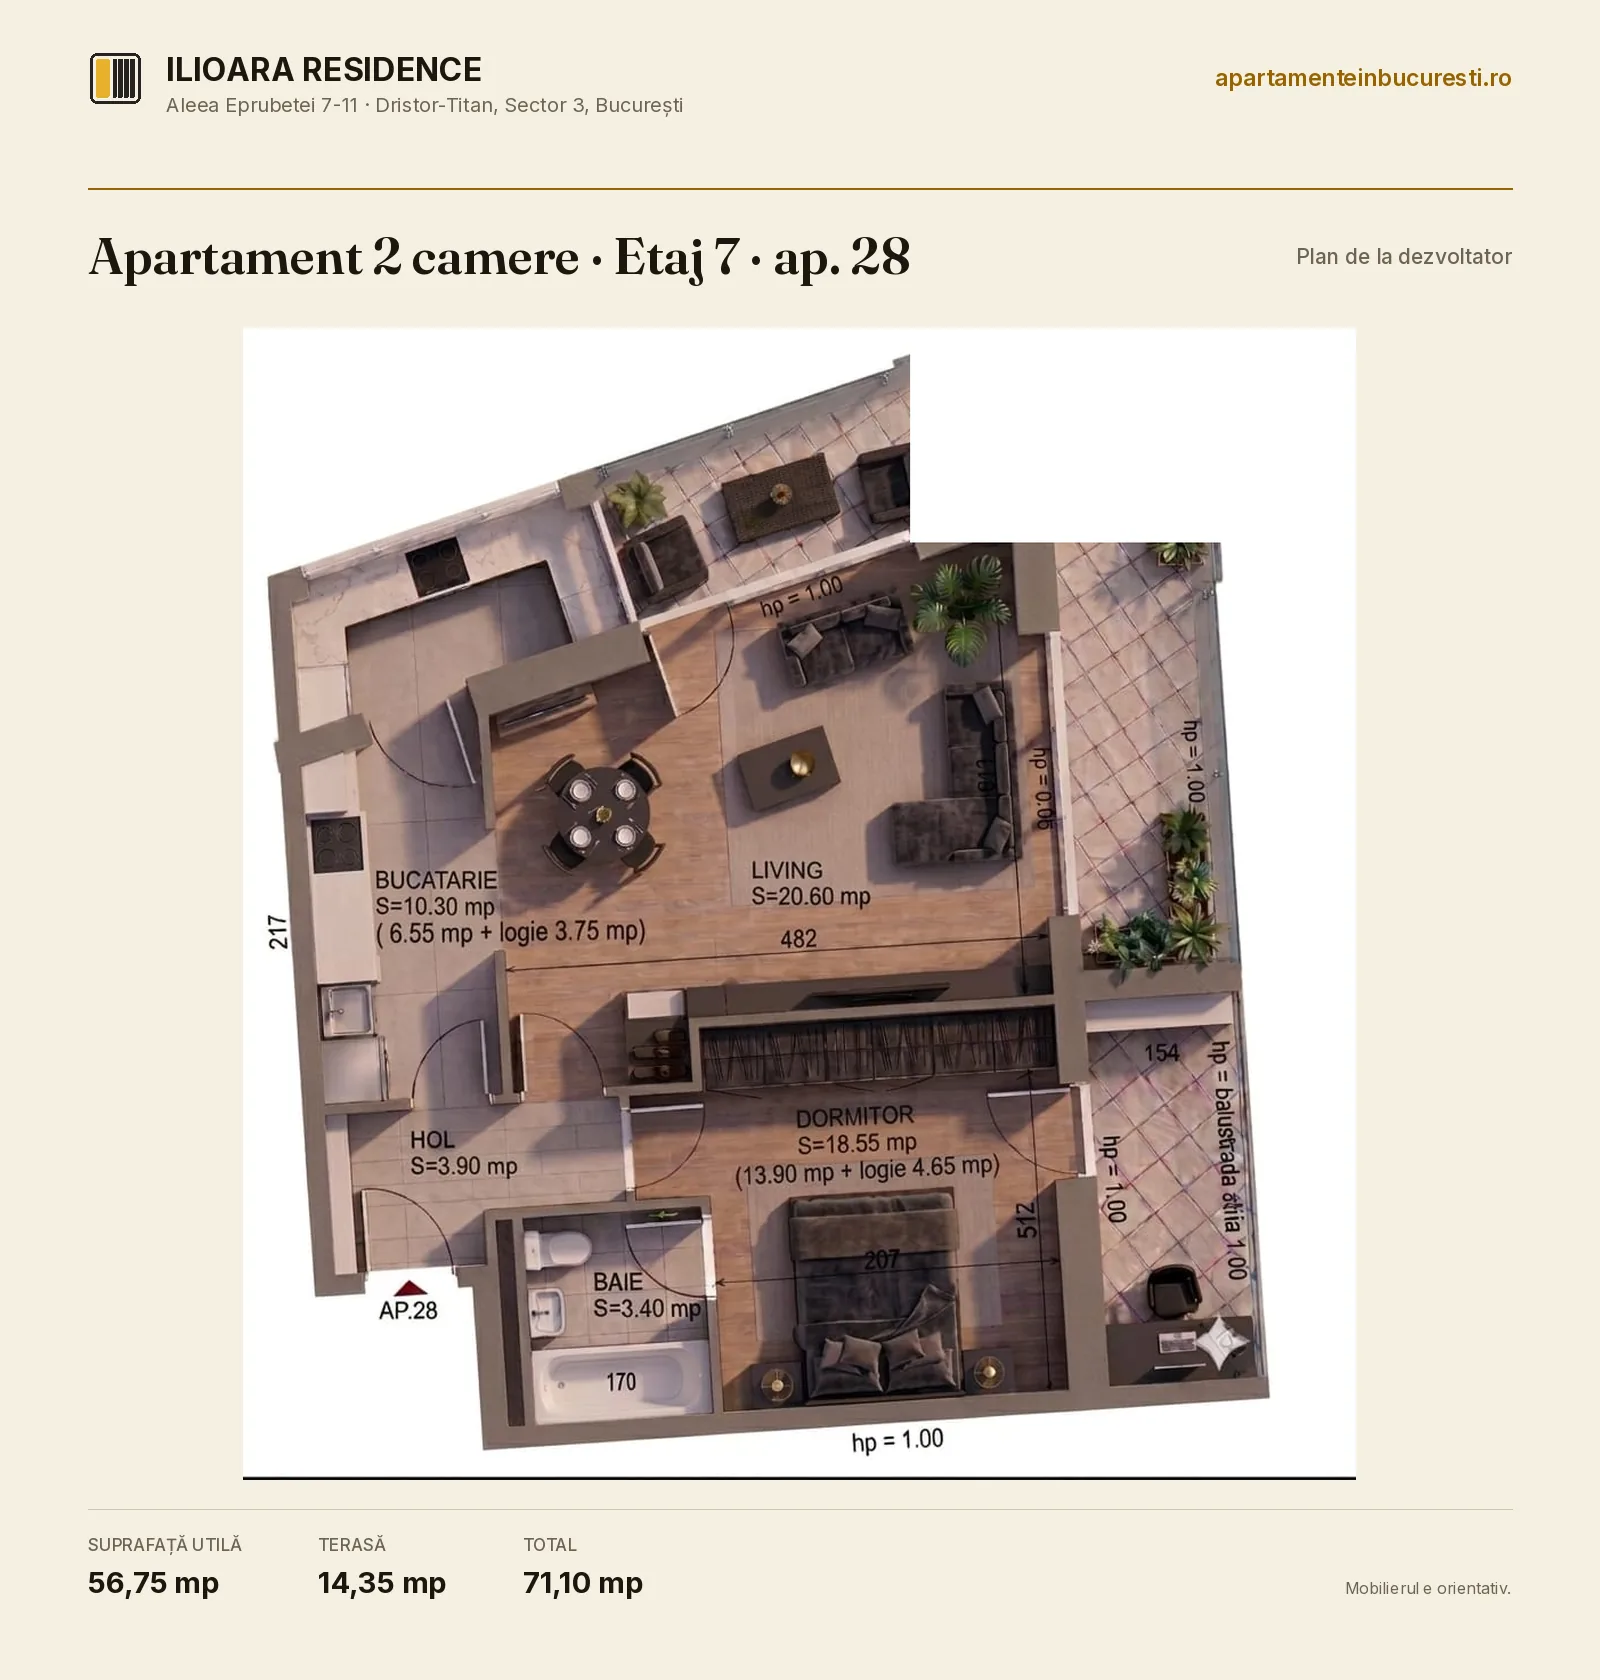
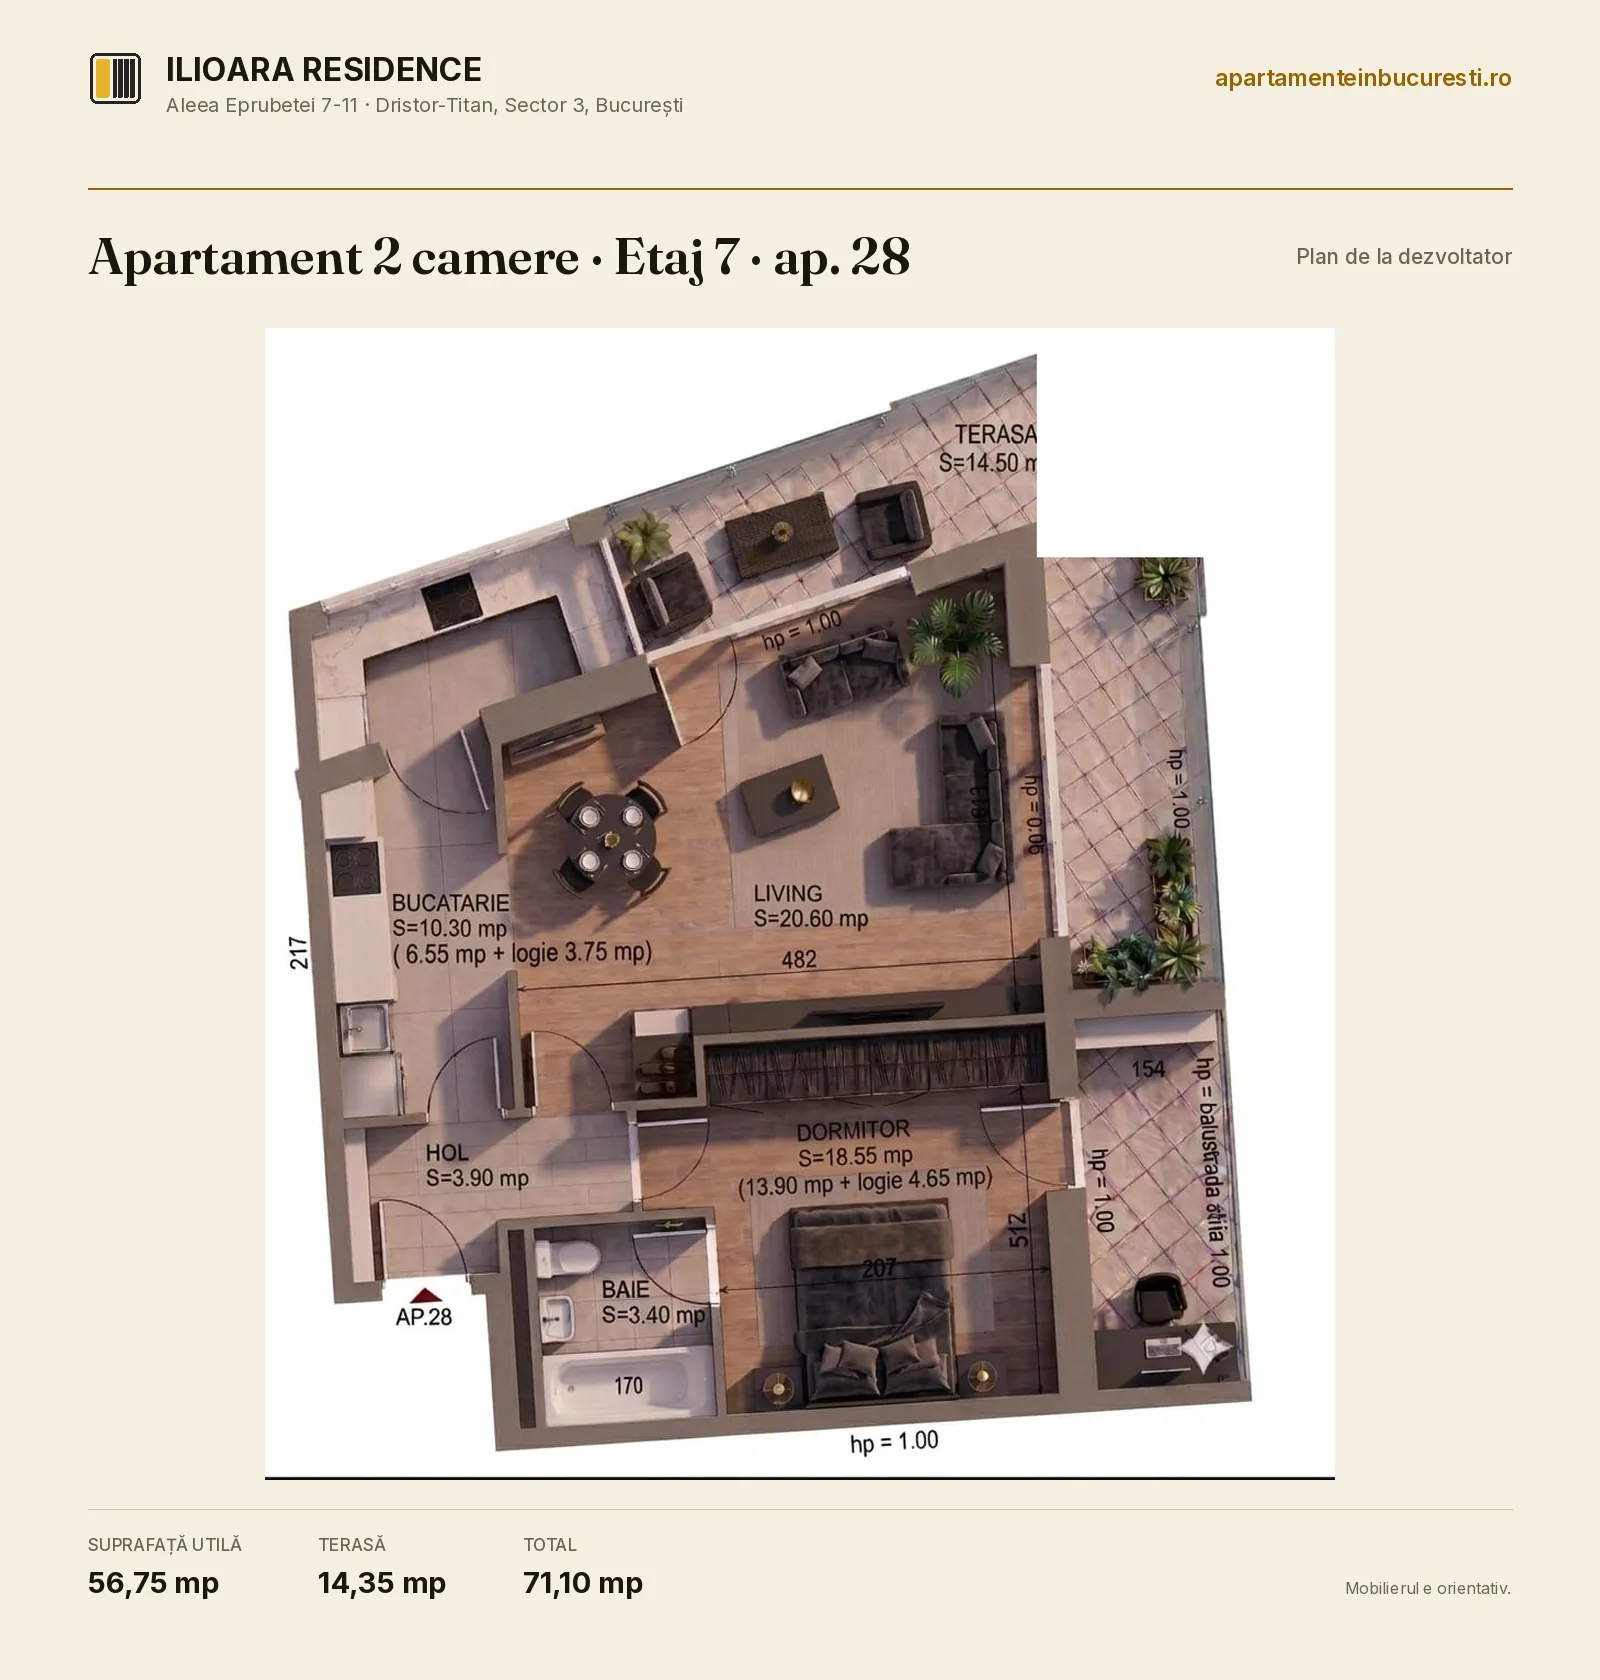
Etajul 7: mastile de brand masurate pe grila, nu ghicite
Pe ap. 28 masca tabelului era (0,60 - 1 · 0 - 0,25) si taia coltul terasei: iesea o
crestatura alba in randare, exact langa cifra "TERASA S=14.50 mp". Aceeasi greseala pe
ap. 30, cu masca la 0,55 unde tabelul incepe la 0,745.

Masurat pe grila, plansa cu plansa:
- ap. 28: antet y 0 - 0,033 · tabel x 0,722 - 1, y 0,033 - 0,232
- ap. 30: antet y 0 - 0,052 · tabel x 0,745 - 1, y 0,052 - 0,315
- ap. 31: antet y 0 - 0,130, iar randarea incepe la 0,165, deci nu se ating

Randarile intra acum intregi, cu terasele si cotele lor.

LECTIE: o masca de brand se masoara pe grila, o singura data, nu se apropie prin
incercari succesive. Trei iteratii ghicite au costat mai mult decat o grila.

Claude-Session: https://claude.ai/code/session_01L1B55aKnmJNQfi41fCw1wB

Changed region(s): [[0.125, 0.1857, 0.8438, 0.8976]]

diff --git a/uk/apartamente/apartament-2-camere-etaj-7-ap-30/index.html b/uk/apartamente/apartament-2-camere-etaj-7-ap-30/index.html
@@ -154,7 +154,7 @@ body.mn-open .mn-x{opacity:1;visibility:visible;transition:opacity .4s ease .15s
 
 <h2 class="rv" data-fx="slide">План квартири</h2>
 <figure class="plan rv" data-fx="rise">
-  <a href="/planuri/plan-ap-30-en-v2.webp" target="_blank" rel="noopener"><img src="/planuri/plan-ap-30-en-v2.webp" width="1600" height="1483" alt="План квартири 30, 2 кімнати, поверх 7, Ilioara Residence, Aleea Eprubetei 7-11" loading="lazy" decoding="async"></a>
+  <a href="/planuri/plan-ap-30-en-v2.webp" target="_blank" rel="noopener"><img src="/planuri/plan-ap-30-en-v2.webp" width="1600" height="1507" alt="План квартири 30, 2 кімнати, поверх 7, Ilioara Residence, Aleea Eprubetei 7-11" loading="lazy" decoding="async"></a>
   <figcaption>План від забудовника. Корисна площа <b>59,50 м²</b>, тераса <b>7,25 м²</b>, разом <b>66,75 м²</b>. Меблі показано умовно.<br><a class="lupa" href="/planuri/plan-ap-30-en-v2.webp" target="_blank" rel="noopener">Відкрити план у повному розмірі &rarr;</a></figcaption>
 </figure>
 <h2 class="rv" data-fx="blur">Повний перелік оздоблення — саме таким, яким квартиру передають</h2>

diff --git a/ar/apartamente/apartament-2-camere-etaj-7-ap-30/index.html b/ar/apartamente/apartament-2-camere-etaj-7-ap-30/index.html
@@ -165,7 +165,7 @@ html[dir="rtl"] .rv[data-fx="slide"]{transform:translateX(26px)}
 
 <h2 class="rv" data-fx="slide">مخطط الشقة</h2>
 <figure class="plan rv" data-fx="rise">
-  <a href="/planuri/plan-ap-30-en-v2.webp" target="_blank" rel="noopener"><img src="/planuri/plan-ap-30-en-v2.webp" width="1600" height="1483" alt="مخطط الشقة 30، 2 غرف، الطابق 7، Ilioara Residence، Aleea Eprubetei 7-11" loading="lazy" decoding="async"></a>
+  <a href="/planuri/plan-ap-30-en-v2.webp" target="_blank" rel="noopener"><img src="/planuri/plan-ap-30-en-v2.webp" width="1600" height="1507" alt="مخطط الشقة 30، 2 غرف، الطابق 7، Ilioara Residence، Aleea Eprubetei 7-11" loading="lazy" decoding="async"></a>
   <figcaption>مخطط من المطوّر. المساحة المفيدة <b>59,50 م²</b>، الشرفة <b>7,25 م²</b>، الإجمالي <b>66,75 م²</b>. الأثاث للتوضيح فقط.<br><a class="lupa" href="/planuri/plan-ap-30-en-v2.webp" target="_blank" rel="noopener">افتح المخطط بالحجم الكامل &rarr;</a></figcaption>
 </figure>
 <h2 class="rv" data-fx="blur">قائمة التشطيبات الكاملة، تماماً كما تُسلَّم</h2>

diff --git a/he/apartamente/apartament-2-camere-etaj-7-ap-30/index.html b/he/apartamente/apartament-2-camere-etaj-7-ap-30/index.html
@@ -165,7 +165,7 @@ html[dir="rtl"] .rv[data-fx="slide"]{transform:translateX(26px)}
 
 <h2 class="rv" data-fx="slide">תוכנית הדירה</h2>
 <figure class="plan rv" data-fx="rise">
-  <a href="/planuri/plan-ap-30-en-v2.webp" target="_blank" rel="noopener"><img src="/planuri/plan-ap-30-en-v2.webp" width="1600" height="1483" alt="תוכנית דירה 30, 2 חדרים, קומה 7, Ilioara Residence, Aleea Eprubetei 7-11" loading="lazy" decoding="async"></a>
+  <a href="/planuri/plan-ap-30-en-v2.webp" target="_blank" rel="noopener"><img src="/planuri/plan-ap-30-en-v2.webp" width="1600" height="1507" alt="תוכנית דירה 30, 2 חדרים, קומה 7, Ilioara Residence, Aleea Eprubetei 7-11" loading="lazy" decoding="async"></a>
   <figcaption>תוכנית מהיזם. שטח מועיל <b>59,50 מ״ר</b>, מרפסת <b>7,25 מ״ר</b>, סך הכול <b>66,75 מ״ר</b>. הריהוט להמחשה בלבד.<br><a class="lupa" href="/planuri/plan-ap-30-en-v2.webp" target="_blank" rel="noopener">פתחו את התוכנית בגודל מלא &rarr;</a></figcaption>
 </figure>
 <h2 class="rv" data-fx="blur">רשימת הגימורים המלאה, בדיוק כפי שהדירה נמסרת</h2>

diff --git a/apartamente/apartament-2-camere-etaj-7-ap-30/index.html b/apartamente/apartament-2-camere-etaj-7-ap-30/index.html
@@ -161,7 +161,7 @@ body.mn-open .mn-x{opacity:1;visibility:visible;transition:opacity .4s ease .15s
 
 <h2 class="rv" data-fx="slide">Planul apartamentului</h2>
 <figure class="plan rv" data-fx="rise">
-  <a href="/planuri/plan-ap-30-ro-v2.webp" target="_blank" rel="noopener"><img src="/planuri/plan-ap-30-ro-v2.webp" width="1600" height="1483" alt="Planul apartamentului 30, 2 camere, etajul 7, Ilioara Residence, Aleea Eprubetei 7-11" loading="lazy" decoding="async"></a>
+  <a href="/planuri/plan-ap-30-ro-v2.webp" target="_blank" rel="noopener"><img src="/planuri/plan-ap-30-ro-v2.webp" width="1600" height="1507" alt="Planul apartamentului 30, 2 camere, etajul 7, Ilioara Residence, Aleea Eprubetei 7-11" loading="lazy" decoding="async"></a>
   <figcaption>Plan de la dezvoltator. Suprafață utilă <b>59,50 mp</b>, terasă <b>7,25 mp</b>, total <b>66,75 mp</b>. Mobilierul e orientativ.<br><a class="lupa" href="/planuri/plan-ap-30-ro-v2.webp" target="_blank" rel="noopener">Deschide planul la dimensiune mare &rarr;</a></figcaption>
 </figure>
 <h2 class="rv" data-fx="blur">Lista completă de finisaje, exact cum se predă</h2>

diff --git a/en/apartamente/apartament-2-camere-etaj-7-ap-30/index.html b/en/apartamente/apartament-2-camere-etaj-7-ap-30/index.html
@@ -154,7 +154,7 @@ body.mn-open .mn-x{opacity:1;visibility:visible;transition:opacity .4s ease .15s
 
 <h2 class="rv" data-fx="slide">Apartment plan</h2>
 <figure class="plan rv" data-fx="rise">
-  <a href="/planuri/plan-ap-30-en-v2.webp" target="_blank" rel="noopener"><img src="/planuri/plan-ap-30-en-v2.webp" width="1600" height="1483" alt="Plan of apartment 30, 2 rooms, floor 7, Ilioara Residence, Aleea Eprubetei 7-11" loading="lazy" decoding="async"></a>
+  <a href="/planuri/plan-ap-30-en-v2.webp" target="_blank" rel="noopener"><img src="/planuri/plan-ap-30-en-v2.webp" width="1600" height="1507" alt="Plan of apartment 30, 2 rooms, floor 7, Ilioara Residence, Aleea Eprubetei 7-11" loading="lazy" decoding="async"></a>
   <figcaption>Plan from the developer. Usable area <b>59,50 sqm</b>, terrace <b>7,25 sqm</b>, total <b>66,75 sqm</b>. Furniture is indicative.<br><a class="lupa" href="/planuri/plan-ap-30-en-v2.webp" target="_blank" rel="noopener">Open the plan at full size &rarr;</a></figcaption>
 </figure>
 <h2 class="rv" data-fx="blur">The complete list of finishes, exactly as handed over</h2>
